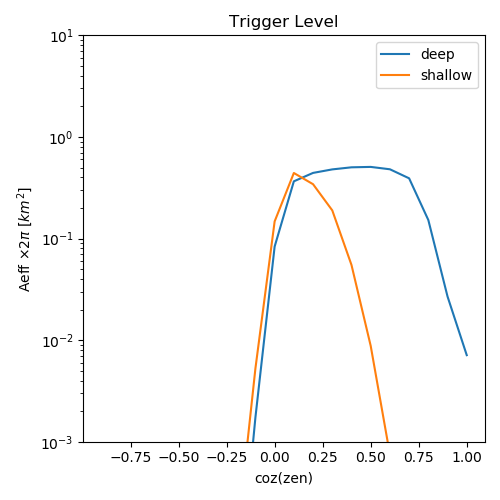
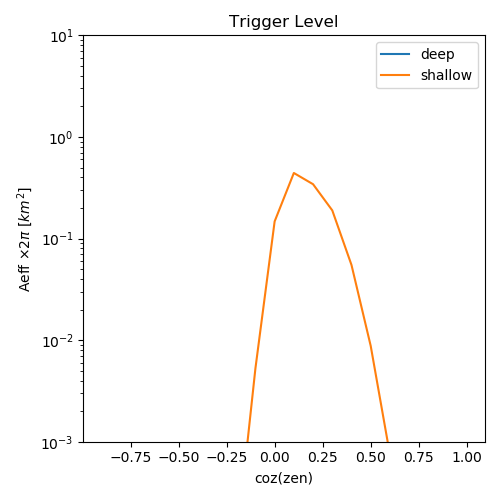
update some plots

diff --git a/analysis/2021.02_review/sky_coverage/plot_sky_coverage.py b/analysis/2021.02_review/sky_coverage/plot_sky_coverage.py
@@ -4,7 +4,7 @@ import scipy as scipy
 from scipy import interpolate
 
 
-n_deep = 144
+n_deep = 0 #144
 n_shallow = (169+144)
 uptime = 1.
 which_e_bin = 6
@@ -73,26 +73,29 @@ if doHealpyPlot:
 				# aeff_this=hlpy.pixelfunc.UNSEEN
 			scan[ipix] = (aeff_this)
 
-	# mask = scan < np.max(scan)*0.01
-	# scan[mask] = hlpy.pixelfunc.UNSEEN
+	# make the interpolator behave
+	mask = scan < 0
+	scan[mask]=0
+
+	mask = scan < np.max(scan)*0.5
+	scan[mask] = hlpy.pixelfunc.UNSEEN
 	# maxval = np.max(scan)
 	# scan/=maxval
-	# mask = scan < 0
-	# scan[mask]=0
+
 
 
 	fig = plt.figure(figsize=(8,5))
 	ax  = fig.add_subplot(111)
 	plt.sca(ax)
 	themap = hlpy.mollview(scan,
-							title='1 EeV',
+							title='1 EeV, {} deep, {} shallow',
 							hold=True,
 							# unit='\n'+r'$log_{10}(A_{eff}) [km^2]$',
 							unit='\n'+r'$A_{eff} \,\,[km^2]$',
 							# unit='\n'+r'Relative Effective Area',)
 							cmap='Reds')
 	hlpy.graticule()
-	fig.savefig('sky_coverage.png')
+	fig.savefig('sky_coverage_{}deep_{}shallow.png'.format(n_deep, n_shallow))
 
 
 
